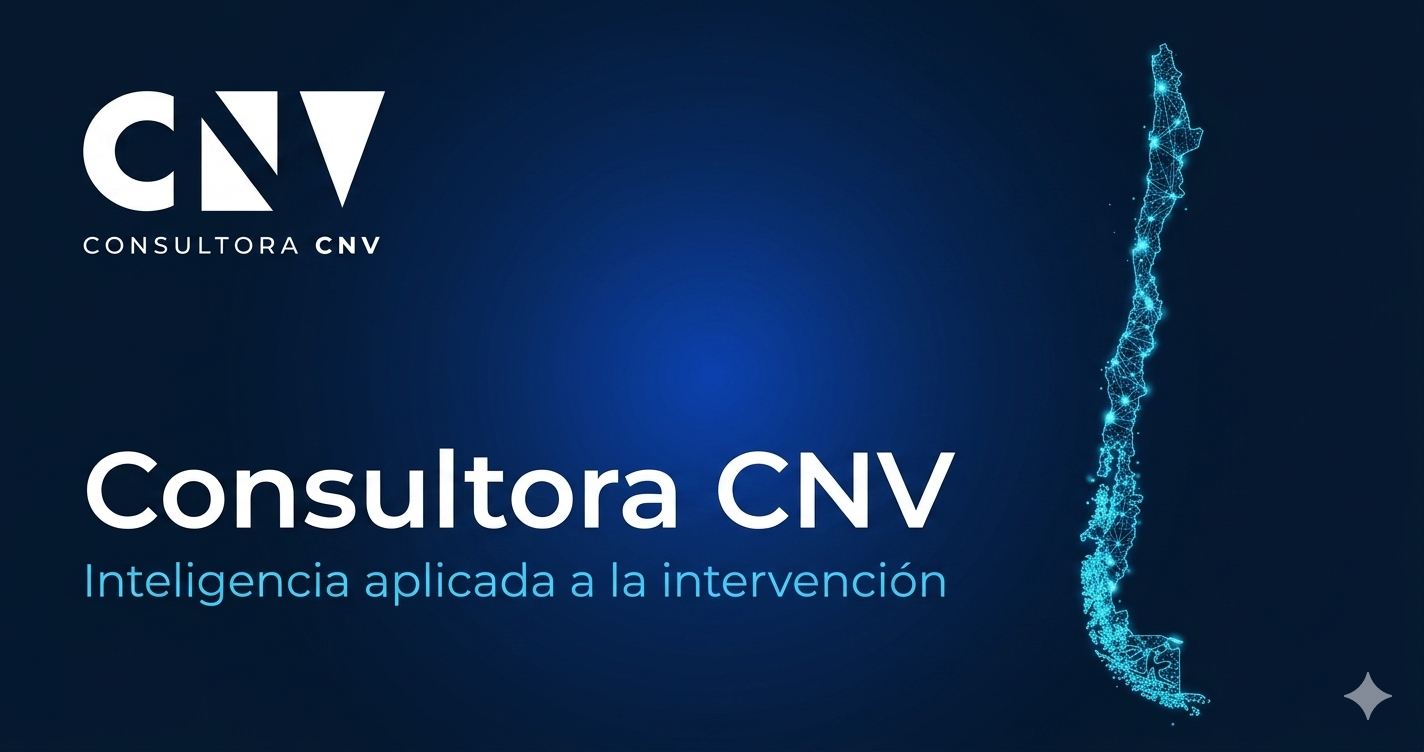
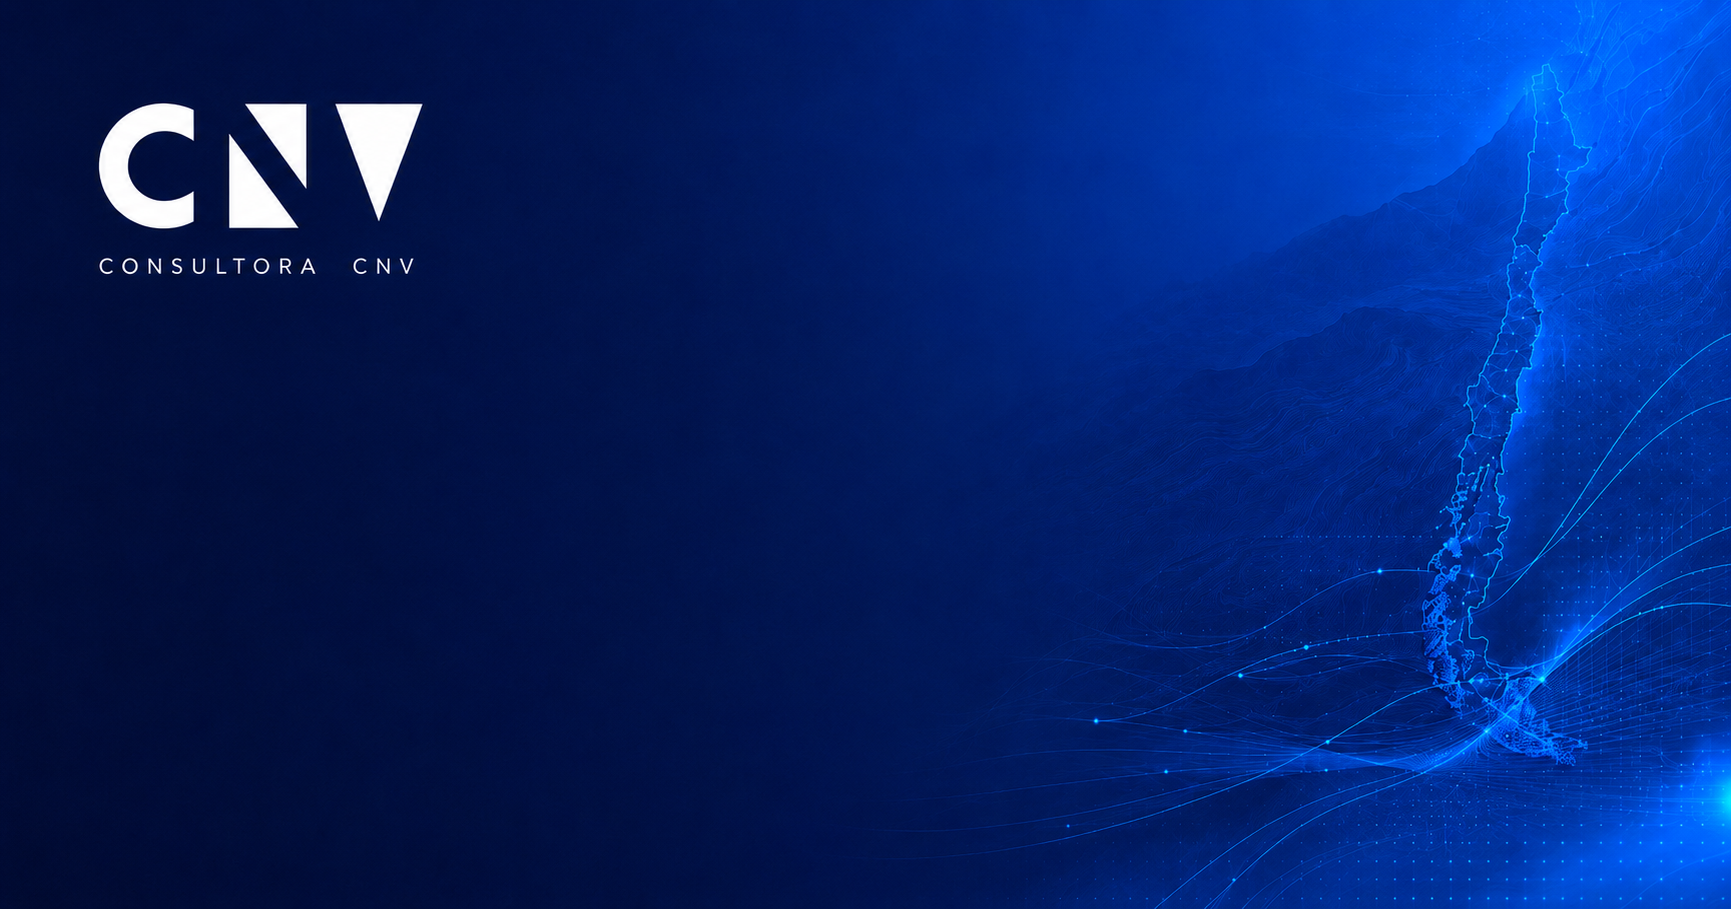
Actualizar og-image.png y dimensiones en meta tags

diff --git a/index.html b/index.html
@@ -18,8 +18,8 @@
     <meta property="og:description" content="Acompañamos a instituciones públicas, empresas y organizaciones a tomar mejores decisiones de intervención, con evidencia, rigor técnico y comprensión del territorio.">
     <meta property="og:url" content="https://consultoracnv.cl">
     <meta property="og:image" content="https://consultoracnv.cl/og-image.png">
-    <meta property="og:image:width" content="1424">
-    <meta property="og:image:height" content="752">
+    <meta property="og:image:width" content="1731">
+    <meta property="og:image:height" content="909">
     <meta property="og:image:alt" content="Consultora CNV · Inteligencia aplicada a la intervención">
     <meta property="og:locale" content="es_CL">
 